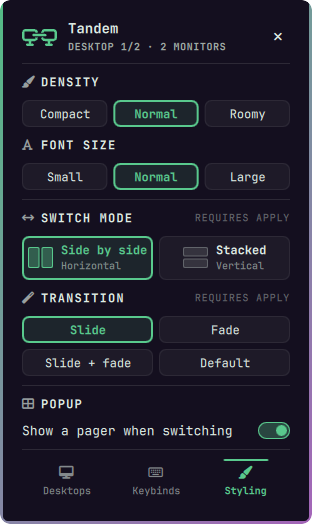
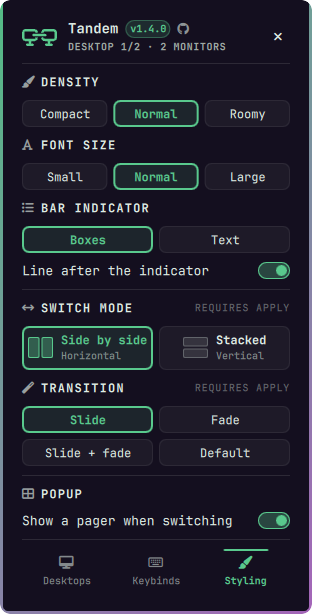
Document the new panel and retake the screenshots
Cover the window icons, the monitor map and Identify, key editing, the
version and repository link, the bar indicator styles and the line after
it. Notes on key capture, window icons and the per-screen overlay.

diff --git a/README.md b/README.md
@@ -72,26 +72,39 @@ One key answer gives both binds: `F` becomes `SUPER + F` to switch and
 `SUPER + SHIFT + F` to carry a window.
 
 <p>
-  <img src="assets/panel-desktops.png" alt="The Desktops page: the desktop count, a named row per desktop with the current one marked ACTIVE and the others a Switch button, and the monitors with their positions" width="250">
+  <img src="assets/panel-desktops.png" alt="The Desktops page: the desktop count, a named row per desktop with app icons for its open windows and the workspaces it owns, and the monitors drawn to scale" width="250">
   <img src="assets/panel-keybinds.png" alt="The Keybinds page: the switch and send keys as key caps, switches for the extra binds, and the setup wizard" width="250">
-  <img src="assets/panel-styling.png" alt="The Styling page: density, font size, switch mode, transition and the pager popup" width="250">
+  <img src="assets/panel-styling.png" alt="The Styling page: density, font size, bar indicator, switch mode, transition and the pager popup" width="250">
 </p>
 
 The **panel** (two-monitor icon, right of the bar) has three pages, switched
-by the tabs along the bottom or with the left and right arrow keys. It follows
-your Omarchy theme: the accent colour marks the current desktop and the chosen
-options, and everything else is a tint of the panel's own text colour.
+by the tabs along the bottom or with the left and right arrow keys. The header
+shows the version and links to this repository. The panel follows your Omarchy
+theme: the accent colour marks the current desktop and the chosen options, and
+everything else is a tint of the panel's own text colour.
 
-- **Desktops** — `−` / `+` for the desktop count and a name field per desktop.
-  The one you are on is marked `ACTIVE` in the accent colour; the others have
-  a **Switch** button. Below are the monitors, each with where it sits (Top /
-  Bottom when stacked, Left / Right side by side) and its resolution.
-- **Keybinds** — the switch and send keys, shown as key caps and set in the
-  wizard, switches for `SUPER + 1..n`, `SUPER + TAB` and `SUPER + scroll`, and
-  a button that re-runs the setup wizard.
+- **Desktops** —
+  - `−` / `+` for the desktop count and a name field per desktop.
+  - The one you are on is marked `ACTIVE` in the accent colour; the others have
+    a **Switch** button.
+  - Under each name, the apps with windows open on that desktop as icons (hover
+    one for the window's title), and the workspaces the desktop owns, such as
+    `WS 1, 2`.
+  - **Monitors**: a map of your screens to scale, each with its name and
+    resolution and the one with focus outlined. **Identify** shows every
+    monitor's name, position and workspace on its own screen for a moment.
+- **Keybinds** —
+  - The switch and send keys, as key caps. Click a row to change it: toggle the
+    modifiers, then press the key. The send key follows the switch key until you
+    set it to something else.
+  - Switches for `SUPER + 1..n`, `SUPER + TAB` and `SUPER + scroll`, and a
+    button that re-runs the setup wizard for the rest.
 - **Styling** —
   - **Density** (**Compact**, **Normal** or **Roomy**) and **font size**
     (**Small**, **Normal** or **Large**).
+  - **Bar indicator**: **Boxes** (each desktop in a rounded box, the current one
+    filled with the accent) or **Text**, and a switch for a thin line after the
+    last desktop that sets it apart from the icons beside it.
   - **Switch mode**: whether the monitors sit side by side or stacked, so a
     switch moves the way they are arranged.
   - **Transition**: slide, fade, slide and fade, or Hyprland's own.
@@ -105,7 +118,8 @@ Desktop, name, key, switch-mode and transition edits are **staged**. A banner
 appears above the tabs with how many are pending, and **Apply & reload** writes
 them: each write regenerates and reloads the Hyprland config, too disruptive
 to do per click. **Revert** discards them; so does closing the panel. Density,
-font size and the popup only change how things look, so they save as you click.
+font size, the bar indicator and the popup only change how things look, so they
+save as you click.
 
 ## Updating
 
@@ -132,7 +146,7 @@ The repo root is the plugin, as `omarchy plugin add` requires.
 ```
 manifest.json     bar-widget plugin, allowMultiple
 BarWidget.qml     entry point; picks a role from its bar entry
-Indicator.qml     the D1/D2 indicator
+Indicator.qml     the desktop indicator in the bar (boxes or text)
 Settings.qml      the settings panel
 TandemIcon.qml    the two-monitor bar icon
 DesktopPopup.qml  the pager popup shown after a switch
@@ -172,6 +186,8 @@ bar hands a widget every key on its entry except `id`:
   "mode":     "horizontal",
   "density":  "normal",
   "fontSize": "normal",
+  "indicator": "boxes",
+  "divider":  false,
   "popup": false }
 ```
 
@@ -197,8 +213,12 @@ bar hands a widget every key on its entry except `id`:
   `roomy` (`comfortable` is still read as `roomy`), and `small`, `normal` or
   `large`. They change nothing in Hyprland or the bar.
 - `popup` — show the pager popup after a desktop switch. Off by default.
+- `indicator` — how the bar shows the desktops: `boxes` (the default) or
+  `text`.
+- `divider` — draw a thin line after the last desktop in the bar. Off by
+  default.
 
-`labels`, `mode`, `density`, `fontSize` and `popup` are display settings that
+`labels`, `mode`, `density`, `fontSize`, `popup`, `indicator` and `divider` are display settings that
 the panel and the bar widget read live from `shell.json`, so changing only
 those skips the Hyprland regenerate-and-reload and needs no shell restart.
 

diff --git a/NOTES.md b/NOTES.md
@@ -129,6 +129,26 @@ per monitor. `WlrLayer.Overlay`, `keyboardFocus: None` and an empty `mask:
 Region {}` make it visual-only. It needs no manifest kind; plugin QML is not
 sandboxed.
 
+**Capture a key from a press, choose the modifiers with buttons.** Pressing
+SUPER + the key while the panel has focus is taken by the compositor's own
+bind before the panel sees it. The panel captures only the plain key (an Item
+that takes focus, so the press reaches it first) and picks SUPER, SHIFT, CTRL
+and ALT with toggles. Qt key codes map to Hyprland names (`Qt.Key_Comma` is
+`comma`, `Qt.Key_PageUp` is `Prior`); a key with no entry is refused rather
+than guessed.
+
+**Window icons: desktop entry first.** A window class such as `brave-origin`
+is not an icon name. Resolve it through `DesktopEntries.byId` (then a guarded
+`heuristicLookup`, accepted only when the ids are related, since it answers
+with some application rather than nothing) and pass the entry's icon to
+`bar.shell.appLibrary.iconSource`, which also searches the on-disk icon index.
+`Hyprland.toplevels` carries each window's `workspace`, `title` and
+`wayland.appId`.
+
+**A panel can open overlay windows on every screen.** `Variants` over
+`Quickshell.screens` with a `PanelWindow` per screen (overlay layer, no
+keyboard focus, empty `mask`) is how Identify names each monitor on itself.
+
 **Panel width has to follow the text, not just the spacing.** `Style.space`
 scales with the shell's base size but text does not scale the same way, so a
 width picked in spacing units truncates labels under another theme. Measure
